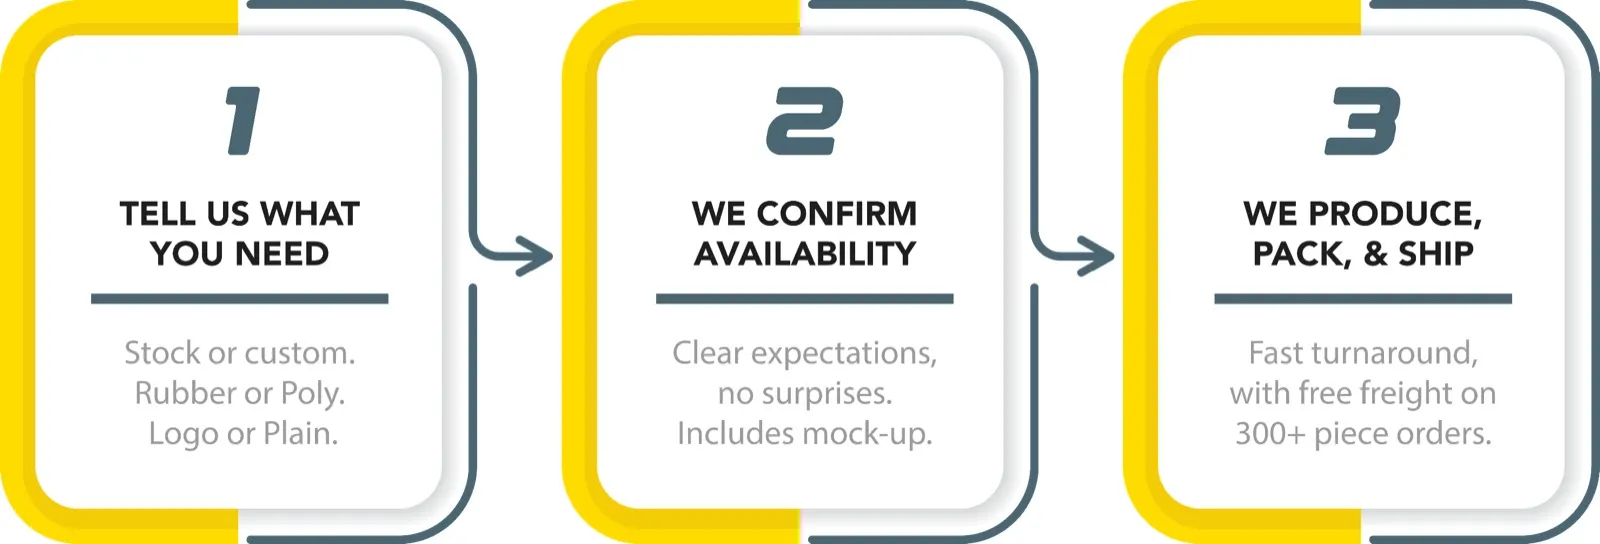
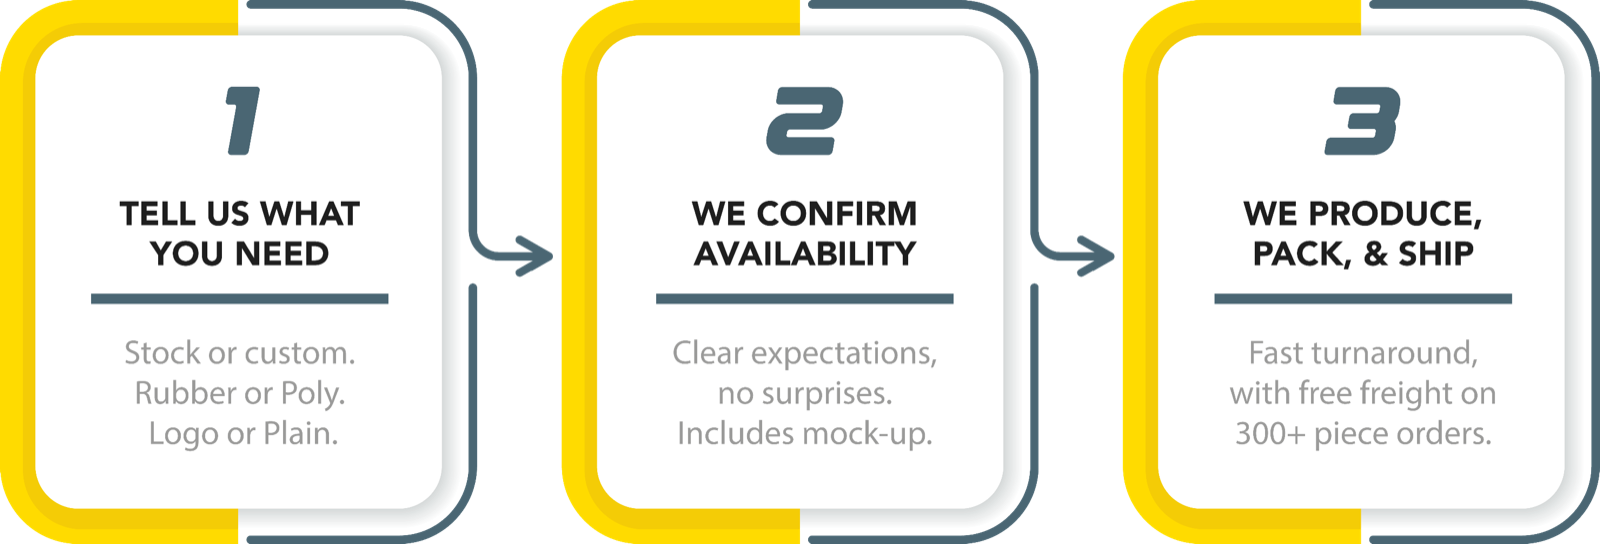
updates

diff --git a/main.css b/main.css
@@ -3,6 +3,7 @@
 }
 
 html {
+  font-size: 18px;
   scroll-behavior: smooth;
 }
 
@@ -128,7 +129,7 @@ body {
   background-color: var(--deep-charcoal);
   color: var(--deep-charcoal);
   font-family: "Avenir", sans-serif;
-  font-size: 18px;
+  font-size: 1rem;
   line-height: 1.6;
 }
 
@@ -187,7 +188,7 @@ h6 {
 }
 
 h1 {
-  font-size: clamp(2.5rem, 5vw, 4rem);
+  font-size: clamp(2.5rem, 5vw, 3rem);
 }
 
 h2 {
@@ -251,8 +252,7 @@ h3 {
 }
 
 .story-copy,
-.page-intro,
-.hero-note {
+.page-intro {
   max-width: 42rem;
   text-align: center;
 }
@@ -302,7 +302,6 @@ h3 {
 }
 
 .columns-1-1 .col {
-  flex: 1 1 0;
   width: 50%;
 }
 
@@ -313,19 +312,24 @@ h3 {
 
 .columns-2-1 .col:first-child {
   flex: 2 1 0;
+  width: 66.66%;
 }
 
 .columns-2-1 .col:last-child {
   flex: 1 1 0;
+  width: 33.33%;
 }
 
 .columns-1-2 .col:first-child {
   flex: 1 1 0;
+  width: 33.33%;
 }
 
 .columns-1-2 .col:last-child {
   flex: 2 1 0;
+  width: 66.66%;
 }
+
 
 .section-header {
   display: grid;
@@ -335,6 +339,13 @@ h3 {
   margin-bottom: 2rem;
   text-align: center;
 }
+
+.section-header .header-left,
+.section-header h2,
+.section-header .header-right {
+     text-box-trim: trim-both;
+}
+
 
 .header-left,
 .header-right {
@@ -364,12 +375,12 @@ h3 {
   align-items: center;
   justify-content: center;
   padding: 0.95rem 1.8rem;
-  border: none;
+  border: 2px solid transparent;
   border-radius: 999px;
   font-size: 1.125rem;
   font-weight: 800;
   text-decoration: none;
-  transition: transform 0.2s ease, box-shadow 0.2s ease, background-color 0.2s ease, color 0.2s ease;
+  transition: transform 0.2s ease, box-shadow 0.2s ease, background-color 0.2s ease, color 0.2s ease, border-color 0.2s ease;
 }
 
 .button:hover,
@@ -383,9 +394,23 @@ h3 {
   color: var(--off-white);
 }
 
+.charcoal:hover,
+.charcoal:focus-visible {
+  background-color: var(--yellow);
+  border-color: var(--deep-charcoal);
+  color: var(--deep-charcoal);
+}
+
 .yellow {
   background-color: var(--yellow);
   color: var(--deep-charcoal);
+}
+
+.yellow:hover,
+.yellow:focus-visible {
+  background-color: var(--deep-charcoal);
+  border-color: var(--yellow);
+  color: var(--yellow);
 }
 
 .site-header {
@@ -518,15 +543,11 @@ body.menu-open {
 }
 
 .hero.home .top {
-  background-image:
-    linear-gradient(90deg, rgba(31, 31, 31, 0.82) 0%, rgba(31, 31, 31, 0.58) 42%, rgba(31, 31, 31, 0.2) 100%),
-    url("./images/optimized/hero-home.jpg");
-  background-image:
-    linear-gradient(90deg, rgba(31, 31, 31, 0.82) 0%, rgba(31, 31, 31, 0.58) 42%, rgba(31, 31, 31, 0.2) 100%),
-    image-set(
-      url("./images/optimized/hero-home.webp") type("image/webp"),
-      url("./images/optimized/hero-home.jpg") type("image/jpeg")
-    );
+  background-image: url("./images/optimized/hero-home.jpg");
+  background-image: image-set(
+    url("./images/optimized/hero-home.webp") type("image/webp"),
+    url("./images/optimized/hero-home.jpg") type("image/jpeg")
+  );
   background-position: 28% center;
   background-repeat: no-repeat;
   background-size: cover;
@@ -535,24 +556,23 @@ body.menu-open {
 .home-hero__content {
   display: flex;
   flex-direction: column;
-  justify-content: flex-end;
+  justify-content: flex-start;
   align-items: flex-start;
-  gap: 1rem;
+  gap: .5rem;
   min-height: clamp(24rem, 70vh, 44rem);
-  padding-top: 2rem;
+  padding-top: clamp(2.5rem, 7vw, 2rem);
   padding-bottom: 4rem;
 }
 
 .hero.home h1,
 .hero.home .sub-text {
-  color: var(--off-white);
+  color: var(--deep-charcoal);
 }
 
 .hero.home .sub-text {
   font-size: 1rem;
   font-weight: 800;
   letter-spacing: 0.04em;
-  text-transform: uppercase;
 }
 
 .hero.home .bottom {
@@ -560,8 +580,13 @@ body.menu-open {
   color: var(--off-white);
 }
 
+.bottom .container {
+  padding-top: 2rem;
+  padding-bottom: 2rem;
+}
 .hero-summary {
-  max-width: 36rem;
+  font-size: 1.11rem;
+  text-align: center;
 }
 
 .why-glmf,
@@ -571,6 +596,11 @@ body.menu-open {
 
 .why-glmf .inner.columns-1-1 {
   align-items: flex-start;
+  justify-content: center;
+}
+
+.why-glmf .col:first-child {
+  max-width: 340px;
 }
 
 .why-glmf ul {
@@ -635,6 +665,9 @@ body.menu-open {
 
 .hero-note {
   color: var(--off-white);
+  font-size: .975rem;
+  text-align: center;
+  font-weight: 100;
 }
 
 .available-products,
@@ -648,6 +681,17 @@ body.menu-open {
   color: var(--off-white);
 }
 
+.available-products .section-header,
+.available-services .section-header {
+  margin-bottom: 0;
+}
+.available-products .container,
+.available-services .container {
+    padding-top: 2rem;
+  padding-bottom: 2rem;
+}
+
+
 .available-services,
 .unsure-where-to-start {
   color: var(--off-white);
@@ -656,6 +700,11 @@ body.menu-open {
 .available-services h2,
 .unsure-where-to-start h2 {
   color: var(--yellow);
+}
+
+.unsure-where-to-start p, .unsure-where-to-start li {
+  font-size: 1.38rem;
+  text-align: center;
 }
 
 .mud-flaps,
@@ -686,13 +735,24 @@ body.menu-open {
   text-align: center;
 }
 
+.product-copy p {
+  font-size: 1.38rem;
+  font-weight: 100;
+  line-height: 1.83rem;
+}
+
 .product-band h3 {
   color: currentColor;
 }
 
 .product-media {
+  display: flex;
   margin: 0;
   min-height: clamp(20rem, 45vw, 31rem);
+}
+
+.product-media picture {
+  flex: 1 1 auto;
 }
 
 .product-media picture,
@@ -1021,6 +1081,15 @@ body.menu-open {
 .site-footer__road {
   display: block;
   width: 100%;
+}
+
+.site-footer__road-wrap {
+  aspect-ratio: 3840 / 814;
+}
+
+.site-footer__road {
+  height: 100%;
+  object-fit: contain;
 }
 
 .site-footer__container {

diff --git a/index.html b/index.html
@@ -58,7 +58,8 @@
             <div class="bottom">
                 <div class="container">
                     <p class="hero-summary">
-                        <strong>Stock and custom mud flaps with fast turnaround and straightforward service.</strong><br>
+                        <strong>Stock and custom mud flaps with fast turnaround and straightforward
+                            service.</strong><br>
                         Rubber, poly-rubber, and poly all in one place.
                     </p>
                 </div>
@@ -74,18 +75,21 @@
                 </div>
                 <div class="inner columns-1-1">
                     <div class="col">
-                        <p>
-                            <strong>A complete mud flap source that actually saves you time.</strong>
-                            We warehouse commonly used mud flaps and materials so stock orders move quickly, and custom
-                            orders do not slow you down.
+                        <p style="text-align: center;">
+                            <span style="font-size: 1.25rem; font-weight: bold;">A one-stop shop that<br>actually saves
+                                you
+                                time.</span><br>
+                            <span style="font-size: 1.11rem;">We warehouse commonly used mud flaps and materials so
+                                stock orders move quickly, and custom
+                                orders don’t slow you down.</span>
                         </p>
                     </div>
                     <div class="col">
-                        <ul>
-                            <li>Stock on hand for faster shipping</li>
-                            <li>Custom printing and cutting available</li>
-                            <li>Rubber, poly-rubber, and poly options</li>
-                            <li>Free freight on orders of 300+ pieces</li>
+                        <ul style="font-size: 1.02rem;">
+                            <li style="font-weight: bold;">Stock on hand for faster shipping</li>
+                            <li style="font-weight: bold;">Custom printing and cutting available</li>
+                            <li style="font-weight: bold;">Rubber, poly-rubber, and poly options</li>
+                            <li style="font-weight: bold;">Free freight on orders of 300+ pieces</li>
                         </ul>
                     </div>
                 </div>
@@ -101,8 +105,12 @@
                 </div>
                 <div class="inner">
                     <picture class="diagram">
-                        <source srcset="images/optimized/how-it-works.webp" type="image/webp">
-                        <img src="images/optimized/how-it-works.jpg"
+                        <source
+                            srcset="images/optimized/how-it-works.webp 1600w, images/optimized/how-it-works@2x.webp 2958w"
+                            sizes="(max-width: 64rem) 100vw, 64rem" type="image/webp">
+                        <img src="images/optimized/how-it-works.png"
+                            srcset="images/optimized/how-it-works.png 1600w, images/2X/GLMF_Howitworks@2x.png 2958w"
+                            sizes="(max-width: 64rem) 100vw, 64rem"
                             alt="Diagram showing the Great Lakes Mud Flaps process from consultation through production and delivery."
                             class="fluid" width="2958" height="1006" loading="lazy" decoding="async">
                     </picture>
@@ -114,7 +122,7 @@
             <div class="container">
                 <div class="section-header">
                     <span class="header-left" aria-hidden="true">&gt;&gt;</span>
-                    <h2 id="view-products-title">View Our Products</h2>
+                    <h2 id="view-products-title">View Products</h2>
                     <span class="header-right" aria-hidden="true">&lt;&lt;</span>
                 </div>
                 <div class="inner">
@@ -131,7 +139,7 @@
                     <span class="header-right" aria-hidden="true">&lt;&lt;</span>
                 </div>
                 <div class="inner">
-                    <a href="/quote.html" class="button charcoal">Request Quote</a>
+                    <a href="/quote.html" class="button charcoal">Contact Us</a>
                 </div>
             </div>
         </section>
@@ -145,7 +153,8 @@
                 </div>
                 <p class="story-copy">
                     <strong>This is not a startup, and it is not stuck in the past.</strong><br>
-                    We are carrying forward over 3 decades of know-how with a faster, more modern approach to service.
+                    <span style="font-weight: 100;">We are carrying forward over 3 decades of know-how with a faster,
+                        more modern approach to service.</span>
                 </p>
                 <div class="inner">
                     <a href="/about.html" class="button yellow button-spaced">Learn Our Story</a>

diff --git a/products.html b/products.html
@@ -49,17 +49,18 @@
     <main id="main-content">
         <section class="hero products-and-services" aria-labelledby="products-title">
             <div class="container inner products-hero__content">
-                <h1 id="products-title">Custom Mud Flaps and Fleet Product Solutions</h1>
-                <picture class="catalog-cover">
+                <h1 id="products-title" style="height: 0; opacity: 0;">Custom Mud Flaps and Fleet Product Solutions</h1>
+                <picture class="catalog-cover" style="border: 2px solid var(--steel-blue);">
                     <source srcset="images/optimized/catalog-cover.webp" type="image/webp">
                     <img src="images/optimized/catalog-cover.jpg"
                         alt="Front cover of the Great Lakes Mud Flaps product catalog." class="fluid" width="1558"
                         height="2016" decoding="async">
                 </picture>
-                <a href="/quote.html" class="button yellow">Request Product Catalog</a>
+                <a href="/quote.html" class="button yellow">View/Download Catalog</a>
                 <p class="hero-note">
-                    The details below are only an overview. For the full line of products and capabilities, request our
-                    complete catalog, which is the most comprehensive guide to everything Great Lakes Mud Flaps offers.
+                    **The details below are only an overview. For the full line of products and capabilities, download
+                    our complete catalog which is the most comprehensive guide to everything Great Lakes Mud Flaps
+                    offers.
                 </p>
             </div>
         </section>
@@ -90,7 +91,7 @@
                         <source srcset="images/optimized/product-mud-flaps.webp" type="image/webp">
                         <img src="images/optimized/product-mud-flaps.jpg"
                             alt="Stacks of black mud flaps ready for fleet and distributor orders." width="1918"
-                            height="1922" loading="lazy" decoding="async">
+                            height="1893" loading="lazy" decoding="async">
                     </picture>
                 </figure>
             </div>
